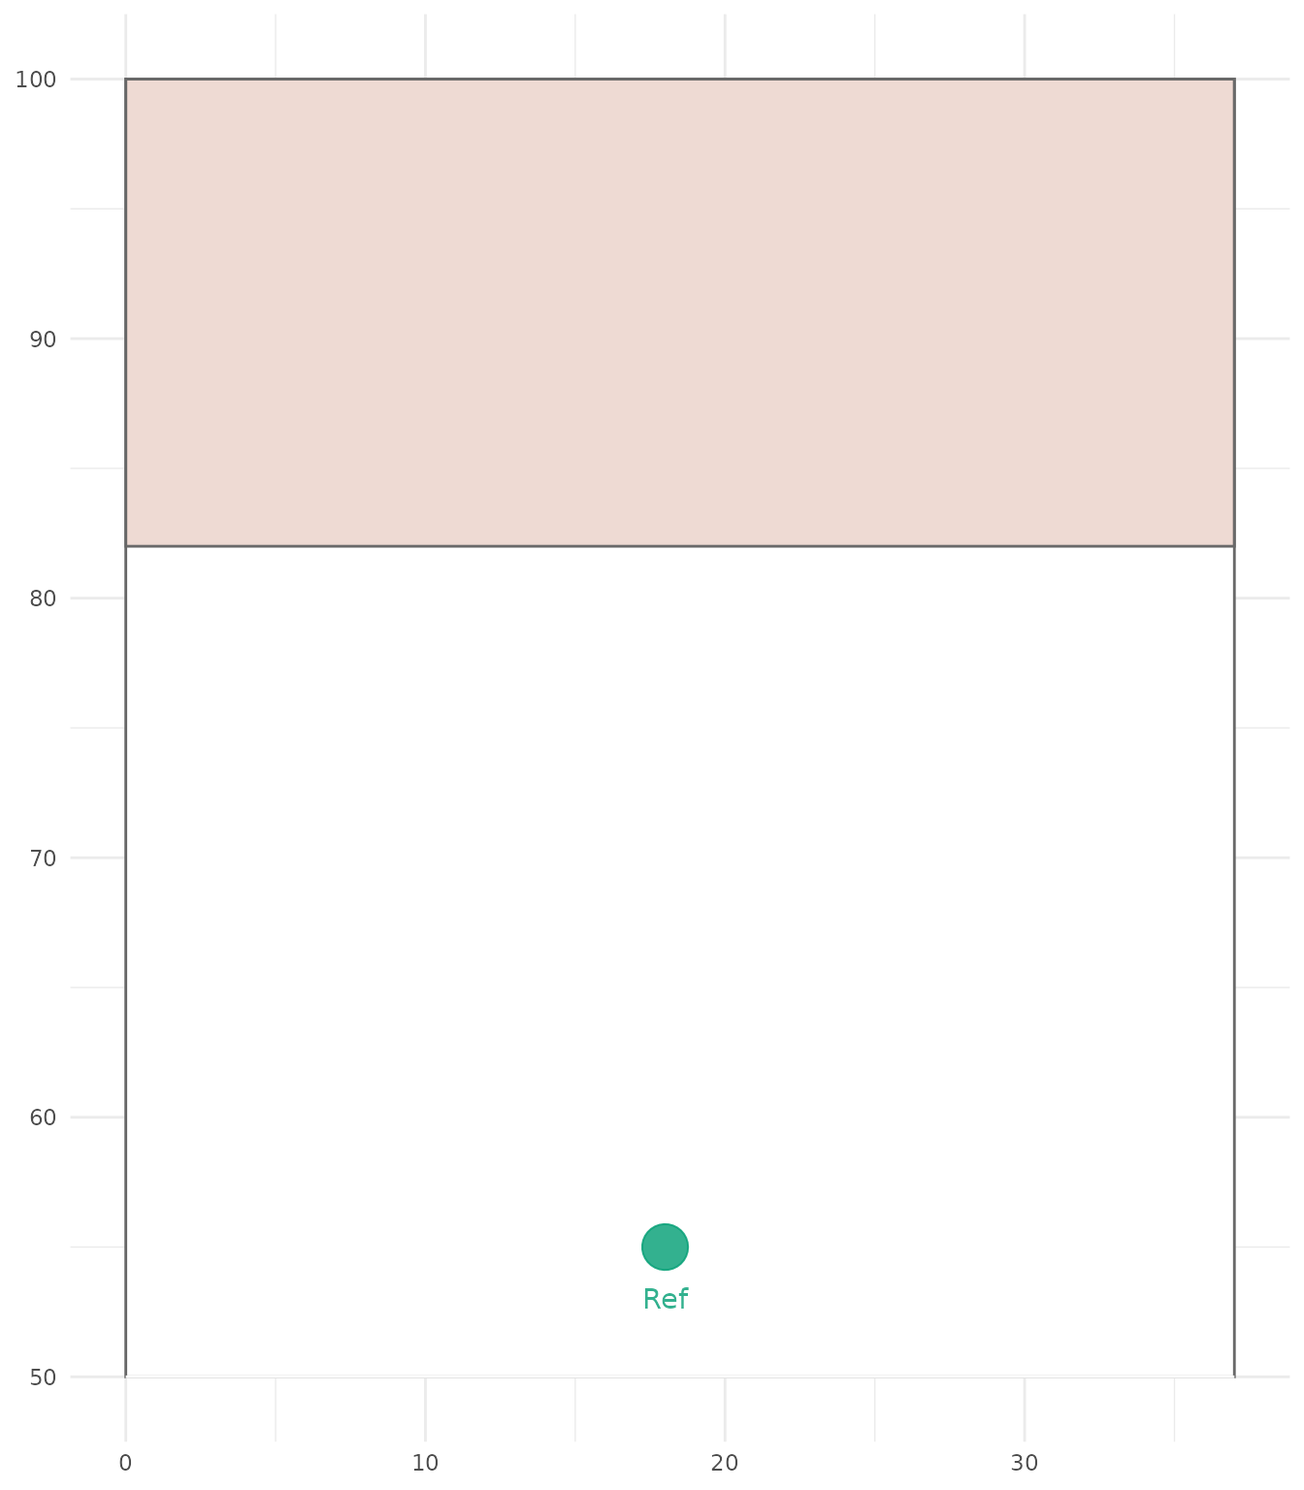
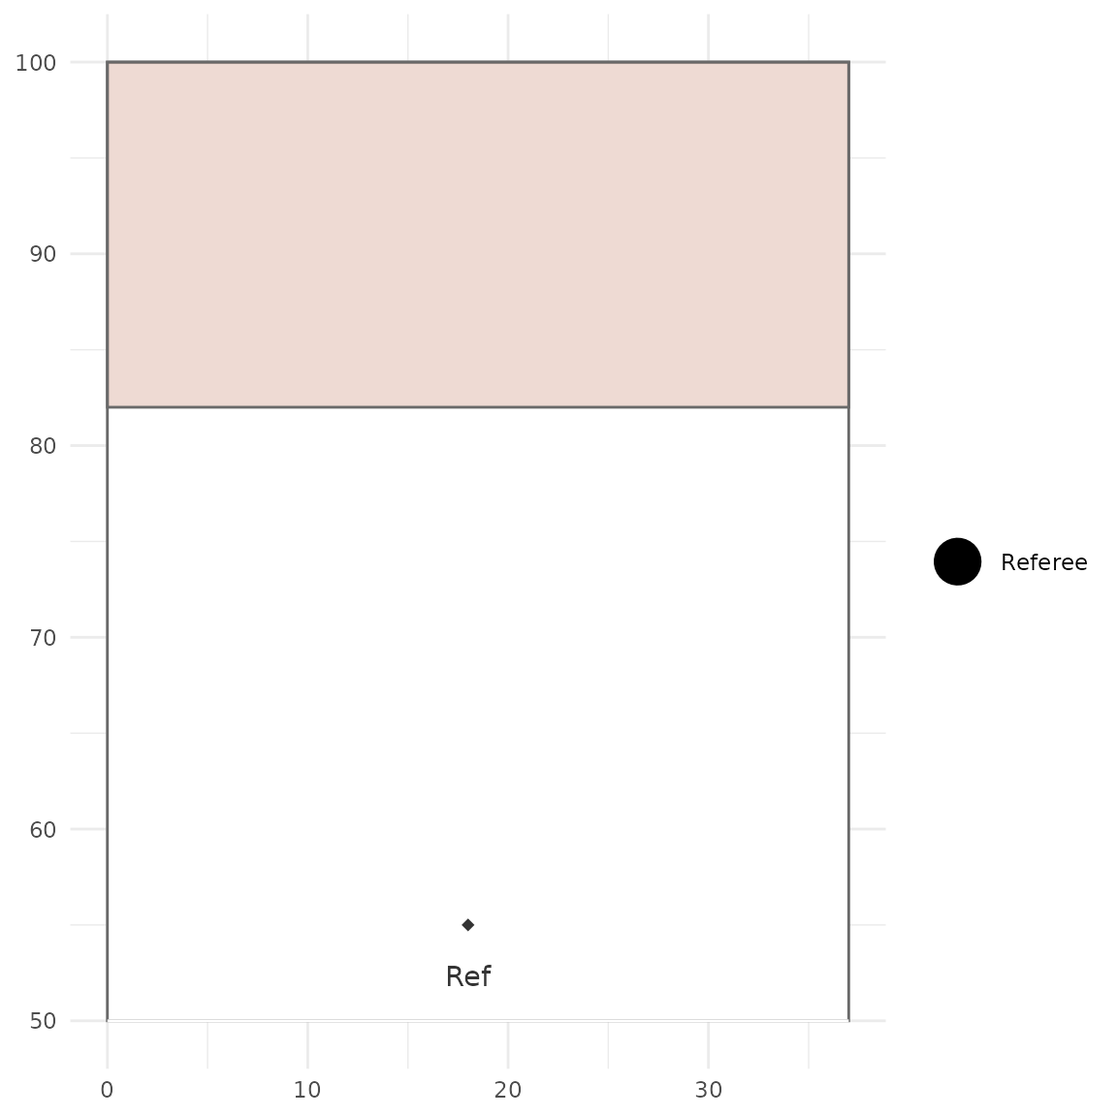
Deploying to gh-pages from @ swebb1/ggulti@4c4fabf41a1923338137650f7c50eff94f878674 🚀

diff --git a/articles/Creating_a_playbook.html b/articles/Creating_a_playbook.html
@@ -109,19 +109,19 @@ endzone.</p>
 </ul>
 <div class="sourceCode" id="cb4"><pre class="downlit sourceCode r">
 <code class="sourceCode R"><span><span class="fu"><a href="../reference/ggpitch.html">ggpitch</a></span><span class="op">(</span><span class="op">)</span></span></code></pre></div>
-<p><img src="Creating_a_playbook_files/figure-html/unnamed-chunk-4-1.png" width="672"></p>
+<p><img src="Creating_a_playbook_files/figure-html/unnamed-chunk-4-1.png" width="576"></p>
 <div class="sourceCode" id="cb5"><pre class="downlit sourceCode r">
 <code class="sourceCode R"><span><span class="fu"><a href="../reference/ggpitch.html">ggpitch</a></span><span class="op">(</span>type <span class="op">=</span> <span class="st">"half_attack"</span>, fill <span class="op">=</span> <span class="st">"lightgreen"</span>, alpha<span class="op">=</span><span class="fl">1</span><span class="op">)</span></span></code></pre></div>
-<p><img src="Creating_a_playbook_files/figure-html/unnamed-chunk-5-1.png" width="672"></p>
+<p><img src="Creating_a_playbook_files/figure-html/unnamed-chunk-5-1.png" width="576"></p>
 <div class="sourceCode" id="cb6"><pre class="downlit sourceCode r">
 <code class="sourceCode R"><span><span class="fu"><a href="../reference/ggpitch.html">ggpitch</a></span><span class="op">(</span>type <span class="op">=</span> <span class="st">"half_defend"</span>, endzone_fill <span class="op">=</span> <span class="st">"black"</span><span class="op">)</span></span></code></pre></div>
-<p><img src="Creating_a_playbook_files/figure-html/unnamed-chunk-6-1.png" width="672"></p>
+<p><img src="Creating_a_playbook_files/figure-html/unnamed-chunk-6-1.png" width="576"></p>
 <div class="sourceCode" id="cb7"><pre class="downlit sourceCode r">
 <code class="sourceCode R"><span><span class="fu"><a href="../reference/ggpitch.html">ggpitch</a></span><span class="op">(</span>type <span class="op">=</span> <span class="st">"blank"</span>, ymax <span class="op">=</span> <span class="fl">50</span>, xmax <span class="op">=</span> <span class="fl">30</span><span class="op">)</span></span></code></pre></div>
-<p><img src="Creating_a_playbook_files/figure-html/unnamed-chunk-7-1.png" width="672"></p>
+<p><img src="Creating_a_playbook_files/figure-html/unnamed-chunk-7-1.png" width="576"></p>
 <div class="sourceCode" id="cb8"><pre class="downlit sourceCode r">
 <code class="sourceCode R"><span><span class="fu"><a href="../reference/ggpitch.html">ggpitch</a></span><span class="op">(</span>type <span class="op">=</span> <span class="st">"void"</span><span class="op">)</span></span></code></pre></div>
-<p><img src="Creating_a_playbook_files/figure-html/unnamed-chunk-8-1.png" width="672"></p>
+<p><img src="Creating_a_playbook_files/figure-html/unnamed-chunk-8-1.png" width="576"></p>
 <p>The <code><a href="../reference/ggpitch.html">ggpitch()</a></code> function returns a <em>ggplot</em> object
 that can be customised further.</p>
 </div>
@@ -156,16 +156,16 @@ image).</p>
 <code><a href="../reference/plot_play.html">plot_play()</a></code> function. The default is to plot frame 1.</p>
 <div class="sourceCode" id="cb10"><pre class="downlit sourceCode r">
 <code class="sourceCode R"><span><span class="fu"><a href="../reference/plot_play.html">plot_play</a></span><span class="op">(</span><span class="va">pitch</span>,object_list <span class="op">=</span> <span class="va">offense</span><span class="op">)</span></span></code></pre></div>
-<p><img src="Creating_a_playbook_files/figure-html/unnamed-chunk-10-1.png" width="672"></p>
+<p><img src="Creating_a_playbook_files/figure-html/unnamed-chunk-10-1.png" width="576"></p>
 <p>We can also choose which frame to plot:</p>
 <div class="sourceCode" id="cb11"><pre class="downlit sourceCode r">
 <code class="sourceCode R"><span><span class="fu"><a href="../reference/plot_play.html">plot_play</a></span><span class="op">(</span><span class="va">pitch</span>,object_list <span class="op">=</span> <span class="va">offense</span>, static_frame <span class="op">=</span> <span class="fl">3</span><span class="op">)</span></span></code></pre></div>
-<p><img src="Creating_a_playbook_files/figure-html/unnamed-chunk-11-1.png" width="672"></p>
+<p><img src="Creating_a_playbook_files/figure-html/unnamed-chunk-11-1.png" width="576"></p>
 <p>Or we can plot all frames and objects which might be useful when
 creating our plots:</p>
 <div class="sourceCode" id="cb12"><pre class="downlit sourceCode r">
 <code class="sourceCode R"><span><span class="fu"><a href="../reference/plot_play.html">plot_play</a></span><span class="op">(</span><span class="va">pitch</span>,object_list <span class="op">=</span> <span class="va">offense</span>,show_all <span class="op">=</span> <span class="cn">T</span><span class="op">)</span></span></code></pre></div>
-<p><img src="Creating_a_playbook_files/figure-html/unnamed-chunk-12-1.png" width="672"></p>
+<p><img src="Creating_a_playbook_files/figure-html/unnamed-chunk-12-1.png" width="576"></p>
 </div>
 <div class="section level3">
 <h3 id="other-object-types">Other object types<a class="anchor" aria-label="anchor" href="#other-object-types"></a>
@@ -188,7 +188,7 @@ types are recognised</p>
 <span><span class="op">)</span></span>
 <span></span>
 <span><span class="fu"><a href="../reference/plot_play.html">plot_play</a></span><span class="op">(</span><span class="va">pitch</span>,object_list <span class="op">=</span> <span class="va">random</span><span class="op">)</span></span></code></pre></div>
-<p><img src="Creating_a_playbook_files/figure-html/unnamed-chunk-13-1.png" width="672"></p>
+<p><img src="Creating_a_playbook_files/figure-html/unnamed-chunk-13-1.png" width="576"></p>
 </div>
 <div class="section level3">
 <h3 id="custom-objects">Custom objects<a class="anchor" aria-label="anchor" href="#custom-objects"></a>
@@ -201,40 +201,43 @@ types are recognised</p>
 <span><span class="op">)</span></span>
 <span></span>
 <span><span class="fu"><a href="../reference/plot_play.html">plot_play</a></span><span class="op">(</span><span class="va">pitch</span>,object_list <span class="op">=</span> <span class="va">custom</span><span class="op">)</span></span></code></pre></div>
-<p><img src="Creating_a_playbook_files/figure-html/unnamed-chunk-14-1.png" width="672"></p>
+<p><img src="Creating_a_playbook_files/figure-html/unnamed-chunk-14-1.png" width="576"></p>
 <p>By default the object will present as an offense object. You can
 change the default options (colour, size, shape) in the
 <code><a href="../reference/plot_play.html">plot_play()</a></code> function:</p>
 <div class="sourceCode" id="cb15"><pre class="downlit sourceCode r">
 <code class="sourceCode R"><span><span class="fu"><a href="../reference/plot_play.html">plot_play</a></span><span class="op">(</span><span class="va">pitch</span>,object_list <span class="op">=</span> <span class="va">custom</span>,default_obj_col<span class="op">=</span><span class="st">"black"</span><span class="op">)</span></span></code></pre></div>
-<p><img src="Creating_a_playbook_files/figure-html/unnamed-chunk-15-1.png" width="672"></p>
-<p>Alternatively, you can add custom objects to the ggulti plot values
-object:</p>
+<p><img src="Creating_a_playbook_files/figure-html/unnamed-chunk-15-1.png" width="576"></p>
+<p>Alternatively, you can use the <code>pv</code> argument to add a new
+list of plotting values. The <code>ggulti_plot_values</code> object
+gives access to default values:</p>
 <div class="sourceCode" id="cb16"><pre class="downlit sourceCode r">
-<code class="sourceCode R"><span><span class="va">ggulti_plot_values</span><span class="op">$</span><span class="va">obj_cols</span><span class="op">[</span><span class="st">"Ref"</span><span class="op">]</span> <span class="op">&lt;-</span> <span class="st">"black"</span></span>
-<span><span class="va">ggulti_plot_values</span><span class="op">$</span><span class="va">obj_shapes</span><span class="op">[</span><span class="st">"Ref"</span><span class="op">]</span> <span class="op">&lt;-</span> <span class="fl">18</span></span>
-<span><span class="va">ggulti_plot_values</span><span class="op">$</span><span class="va">obj_sizes</span><span class="op">[</span><span class="st">"Ref"</span><span class="op">]</span> <span class="op">&lt;-</span> <span class="fl">2</span> </span>
+<code class="sourceCode R"><span><span class="va">pv</span> <span class="op">&lt;-</span> <span class="va">ggulti_plot_values</span></span>
+<span><span class="va">pv</span><span class="op">$</span><span class="va">obj_cols</span> <span class="op">&lt;-</span> <span class="fu"><a href="https://rdrr.io/r/base/c.html" class="external-link">c</a></span><span class="op">(</span><span class="va">pv</span><span class="op">$</span><span class="va">obj_cols</span>,<span class="st">"Referee"</span> <span class="op">=</span> <span class="st">"black"</span><span class="op">)</span></span>
+<span><span class="va">pv</span><span class="op">$</span><span class="va">obj_shapes</span> <span class="op">&lt;-</span> <span class="fu"><a href="https://rdrr.io/r/base/c.html" class="external-link">c</a></span><span class="op">(</span><span class="va">pv</span><span class="op">$</span><span class="va">obj_shapes</span>,<span class="st">"Referee"</span> <span class="op">=</span> <span class="fl">18</span><span class="op">)</span></span>
+<span><span class="va">pv</span><span class="op">$</span><span class="va">obj_sizes</span> <span class="op">&lt;-</span> <span class="fu"><a href="https://rdrr.io/r/base/c.html" class="external-link">c</a></span><span class="op">(</span><span class="va">pv</span><span class="op">$</span><span class="va">obj_sizes</span>,<span class="st">"Referee"</span> <span class="op">=</span> <span class="fl">2</span><span class="op">)</span></span>
 <span></span>
-<span><span class="fu"><a href="../reference/plot_play.html">plot_play</a></span><span class="op">(</span><span class="va">pitch</span>,object_list <span class="op">=</span> <span class="va">custom</span><span class="op">)</span></span></code></pre></div>
-<p><img src="Creating_a_playbook_files/figure-html/unnamed-chunk-16-1.png" width="672"></p>
-<p>By customising objects, you can specifiy specific teams or even
-colour positions in a zone differently.</p>
+<span><span class="fu"><a href="../reference/plot_play.html">plot_play</a></span><span class="op">(</span><span class="va">pitch</span>,object_list <span class="op">=</span> <span class="va">custom</span>, pv<span class="op">=</span><span class="va">pv</span><span class="op">)</span></span></code></pre></div>
+<p><img src="Creating_a_playbook_files/figure-html/unnamed-chunk-16-1.png" width="576"></p>
+<p>By customising objects, you can specifiy specific teams, genders or
+even psoitions e.g.</p>
 <div class="sourceCode" id="cb17"><pre class="downlit sourceCode r">
-<code class="sourceCode R"><span><span class="va">zone_positions</span> <span class="op">&lt;-</span> <span class="fu"><a href="https://rdrr.io/r/base/c.html" class="external-link">c</a></span><span class="op">(</span><span class="st">"Cup"</span> <span class="op">=</span> <span class="st">"blue"</span>, <span class="st">"Wing"</span> <span class="op">=</span> <span class="st">"red"</span>, <span class="st">"Mid"</span> <span class="op">=</span> <span class="st">"yellow"</span>, <span class="st">"Deep"</span> <span class="op">=</span> <span class="st">"green"</span><span class="op">)</span></span>
-<span><span class="va">ggulti_plot_values</span><span class="op">$</span><span class="va">obj_cols</span> <span class="op">&lt;-</span> <span class="fu"><a href="https://rdrr.io/r/base/append.html" class="external-link">append</a></span><span class="op">(</span><span class="va">ggulti_plot_values</span><span class="op">$</span><span class="va">obj_cols</span>, <span class="va">zone_positions</span><span class="op">)</span></span>
+<code class="sourceCode R"><span><span class="va">zone_positions</span> <span class="op">&lt;-</span> <span class="fu"><a href="https://rdrr.io/r/base/c.html" class="external-link">c</a></span><span class="op">(</span><span class="st">"Cup"</span> <span class="op">=</span> <span class="st">"blue"</span>, <span class="st">"Wing"</span> <span class="op">=</span> <span class="st">"red"</span>, <span class="st">"Mid"</span> <span class="op">=</span> <span class="st">"purple"</span>, <span class="st">"Deep"</span> <span class="op">=</span> <span class="st">"green"</span><span class="op">)</span></span>
+<span><span class="va">pv</span> <span class="op">&lt;-</span> <span class="va">ggulti_plot_values</span></span>
+<span><span class="va">pv</span><span class="op">$</span><span class="va">obj_cols</span> <span class="op">&lt;-</span> <span class="fu"><a href="https://rdrr.io/r/base/c.html" class="external-link">c</a></span><span class="op">(</span><span class="va">ggulti_plot_values</span><span class="op">$</span><span class="va">obj_cols</span>, <span class="va">zone_positions</span><span class="op">)</span></span>
 <span></span>
 <span><span class="va">zone</span> <span class="op">&lt;-</span> <span class="fu"><a href="https://rdrr.io/r/base/list.html" class="external-link">list</a></span><span class="op">(</span></span>
-<span>  <span class="fu"><a href="../reference/pitch_object.html">pitch_object</a></span><span class="op">(</span><span class="st">"Cup"</span>, show<span class="op">=</span><span class="cn">T</span>, x<span class="op">=</span><span class="fu"><a href="https://rdrr.io/r/base/c.html" class="external-link">c</a></span><span class="op">(</span><span class="fl">14</span><span class="op">)</span>, y<span class="op">=</span><span class="fu"><a href="https://rdrr.io/r/base/c.html" class="external-link">c</a></span><span class="op">(</span><span class="fl">25</span><span class="op">)</span><span class="op">)</span>,</span>
-<span>  <span class="fu"><a href="../reference/pitch_object.html">pitch_object</a></span><span class="op">(</span><span class="st">"Cup"</span>, show<span class="op">=</span><span class="cn">T</span>, x<span class="op">=</span><span class="fu"><a href="https://rdrr.io/r/base/c.html" class="external-link">c</a></span><span class="op">(</span><span class="fl">18</span><span class="op">)</span>, y<span class="op">=</span><span class="fu"><a href="https://rdrr.io/r/base/c.html" class="external-link">c</a></span><span class="op">(</span><span class="fl">28</span><span class="op">)</span><span class="op">)</span>,</span>
-<span>  <span class="fu"><a href="../reference/pitch_object.html">pitch_object</a></span><span class="op">(</span><span class="st">"Cup"</span>, show<span class="op">=</span><span class="cn">T</span>, x<span class="op">=</span><span class="fu"><a href="https://rdrr.io/r/base/c.html" class="external-link">c</a></span><span class="op">(</span><span class="fl">22</span><span class="op">)</span>, y<span class="op">=</span><span class="fu"><a href="https://rdrr.io/r/base/c.html" class="external-link">c</a></span><span class="op">(</span><span class="fl">25</span><span class="op">)</span><span class="op">)</span>,</span>
-<span>  <span class="fu"><a href="../reference/pitch_object.html">pitch_object</a></span><span class="op">(</span><span class="st">"Wing"</span>, show<span class="op">=</span><span class="cn">T</span>, x<span class="op">=</span><span class="fu"><a href="https://rdrr.io/r/base/c.html" class="external-link">c</a></span><span class="op">(</span><span class="fl">10</span><span class="op">)</span>, y<span class="op">=</span><span class="fu"><a href="https://rdrr.io/r/base/c.html" class="external-link">c</a></span><span class="op">(</span><span class="fl">40</span><span class="op">)</span><span class="op">)</span>,</span>
-<span>  <span class="fu"><a href="../reference/pitch_object.html">pitch_object</a></span><span class="op">(</span><span class="st">"Wing"</span>, show<span class="op">=</span><span class="cn">T</span>, x<span class="op">=</span><span class="fu"><a href="https://rdrr.io/r/base/c.html" class="external-link">c</a></span><span class="op">(</span><span class="fl">27</span><span class="op">)</span>, y<span class="op">=</span><span class="fu"><a href="https://rdrr.io/r/base/c.html" class="external-link">c</a></span><span class="op">(</span><span class="fl">40</span><span class="op">)</span><span class="op">)</span>,</span>
-<span>  <span class="fu"><a href="../reference/pitch_object.html">pitch_object</a></span><span class="op">(</span><span class="st">"Mid"</span>, show<span class="op">=</span><span class="cn">T</span>, x<span class="op">=</span><span class="fu"><a href="https://rdrr.io/r/base/c.html" class="external-link">c</a></span><span class="op">(</span><span class="fl">18</span><span class="op">)</span>, y<span class="op">=</span><span class="fu"><a href="https://rdrr.io/r/base/c.html" class="external-link">c</a></span><span class="op">(</span><span class="fl">38</span><span class="op">)</span><span class="op">)</span>,</span>
-<span>  <span class="fu"><a href="../reference/pitch_object.html">pitch_object</a></span><span class="op">(</span><span class="st">"Deep"</span>, show<span class="op">=</span><span class="cn">T</span>, x<span class="op">=</span><span class="fu"><a href="https://rdrr.io/r/base/c.html" class="external-link">c</a></span><span class="op">(</span><span class="fl">18</span><span class="op">)</span>, y<span class="op">=</span><span class="fu"><a href="https://rdrr.io/r/base/c.html" class="external-link">c</a></span><span class="op">(</span><span class="fl">60</span><span class="op">)</span><span class="op">)</span></span>
+<span>  <span class="fu"><a href="../reference/pitch_object.html">pitch_object</a></span><span class="op">(</span><span class="st">"C1"</span>, show<span class="op">=</span><span class="cn">T</span>, object <span class="op">=</span> <span class="st">"Cup"</span>, x<span class="op">=</span><span class="fu"><a href="https://rdrr.io/r/base/c.html" class="external-link">c</a></span><span class="op">(</span><span class="fl">14</span><span class="op">)</span>, y<span class="op">=</span><span class="fu"><a href="https://rdrr.io/r/base/c.html" class="external-link">c</a></span><span class="op">(</span><span class="fl">25</span><span class="op">)</span><span class="op">)</span>,</span>
+<span>  <span class="fu"><a href="../reference/pitch_object.html">pitch_object</a></span><span class="op">(</span><span class="st">"C2"</span>, show<span class="op">=</span><span class="cn">T</span>, object <span class="op">=</span> <span class="st">"Cup"</span>, x<span class="op">=</span><span class="fu"><a href="https://rdrr.io/r/base/c.html" class="external-link">c</a></span><span class="op">(</span><span class="fl">18</span><span class="op">)</span>, y<span class="op">=</span><span class="fu"><a href="https://rdrr.io/r/base/c.html" class="external-link">c</a></span><span class="op">(</span><span class="fl">28</span><span class="op">)</span><span class="op">)</span>,</span>
+<span>  <span class="fu"><a href="../reference/pitch_object.html">pitch_object</a></span><span class="op">(</span><span class="st">"C3"</span>, show<span class="op">=</span><span class="cn">T</span>, object <span class="op">=</span> <span class="st">"Cup"</span>, x<span class="op">=</span><span class="fu"><a href="https://rdrr.io/r/base/c.html" class="external-link">c</a></span><span class="op">(</span><span class="fl">22</span><span class="op">)</span>, y<span class="op">=</span><span class="fu"><a href="https://rdrr.io/r/base/c.html" class="external-link">c</a></span><span class="op">(</span><span class="fl">25</span><span class="op">)</span><span class="op">)</span>,</span>
+<span>  <span class="fu"><a href="../reference/pitch_object.html">pitch_object</a></span><span class="op">(</span><span class="st">"W1"</span>, show<span class="op">=</span><span class="cn">T</span>, object <span class="op">=</span> <span class="st">"Wing"</span>, x<span class="op">=</span><span class="fu"><a href="https://rdrr.io/r/base/c.html" class="external-link">c</a></span><span class="op">(</span><span class="fl">10</span><span class="op">)</span>, y<span class="op">=</span><span class="fu"><a href="https://rdrr.io/r/base/c.html" class="external-link">c</a></span><span class="op">(</span><span class="fl">40</span><span class="op">)</span><span class="op">)</span>,</span>
+<span>  <span class="fu"><a href="../reference/pitch_object.html">pitch_object</a></span><span class="op">(</span><span class="st">"W2"</span>, show<span class="op">=</span><span class="cn">T</span>, object <span class="op">=</span> <span class="st">"Wing"</span>, x<span class="op">=</span><span class="fu"><a href="https://rdrr.io/r/base/c.html" class="external-link">c</a></span><span class="op">(</span><span class="fl">27</span><span class="op">)</span>, y<span class="op">=</span><span class="fu"><a href="https://rdrr.io/r/base/c.html" class="external-link">c</a></span><span class="op">(</span><span class="fl">40</span><span class="op">)</span><span class="op">)</span>,</span>
+<span>  <span class="fu"><a href="../reference/pitch_object.html">pitch_object</a></span><span class="op">(</span><span class="st">"Mid"</span>, show<span class="op">=</span><span class="cn">T</span>, object <span class="op">=</span> <span class="st">"Mid"</span>, x<span class="op">=</span><span class="fu"><a href="https://rdrr.io/r/base/c.html" class="external-link">c</a></span><span class="op">(</span><span class="fl">18</span><span class="op">)</span>, y<span class="op">=</span><span class="fu"><a href="https://rdrr.io/r/base/c.html" class="external-link">c</a></span><span class="op">(</span><span class="fl">38</span><span class="op">)</span>, label_pos <span class="op">=</span> <span class="st">"up"</span><span class="op">)</span>,</span>
+<span>  <span class="fu"><a href="../reference/pitch_object.html">pitch_object</a></span><span class="op">(</span><span class="st">"Deep"</span>, show<span class="op">=</span><span class="cn">T</span>, object <span class="op">=</span> <span class="st">"Deep"</span>, x<span class="op">=</span><span class="fu"><a href="https://rdrr.io/r/base/c.html" class="external-link">c</a></span><span class="op">(</span><span class="fl">18</span><span class="op">)</span>, y<span class="op">=</span><span class="fu"><a href="https://rdrr.io/r/base/c.html" class="external-link">c</a></span><span class="op">(</span><span class="fl">60</span><span class="op">)</span><span class="op">)</span></span>
 <span><span class="op">)</span></span>
 <span></span>
-<span><span class="fu"><a href="../reference/plot_play.html">plot_play</a></span><span class="op">(</span><span class="fu"><a href="../reference/ggpitch.html">ggpitch</a></span><span class="op">(</span>endzone_fill<span class="op">=</span><span class="st">"darkgrey"</span><span class="op">)</span>,object_list <span class="op">=</span> <span class="va">zone</span><span class="op">)</span></span></code></pre></div>
-<p><img src="Creating_a_playbook_files/figure-html/unnamed-chunk-17-1.png" width="672"></p>
+<span><span class="fu"><a href="../reference/plot_play.html">plot_play</a></span><span class="op">(</span><span class="fu"><a href="../reference/ggpitch.html">ggpitch</a></span><span class="op">(</span>endzone_fill<span class="op">=</span><span class="st">"darkgrey"</span><span class="op">)</span>,object_list <span class="op">=</span> <span class="va">zone</span>,pv<span class="op">=</span><span class="va">pv</span><span class="op">)</span></span></code></pre></div>
+<p><img src="Creating_a_playbook_files/figure-html/unnamed-chunk-17-1.png" width="576"></p>
 </div>
 </div>
   </main><aside class="col-md-3"><nav id="toc"><h2>On this page</h2>

diff --git a/reference/hstack.html b/reference/hstack.html
@@ -74,7 +74,7 @@
 <span class="r-out co"><span class="r-pr">#&gt;</span>             y = c(40), alpha = 0.8, frame = 1))</span>
 <span class="r-out co"><span class="r-pr">#&gt;</span>     bind_rows(players)</span>
 <span class="r-out co"><span class="r-pr">#&gt;</span> }</span>
-<span class="r-out co"><span class="r-pr">#&gt;</span> &lt;bytecode: 0x564ce39fe4b0&gt;</span>
+<span class="r-out co"><span class="r-pr">#&gt;</span> &lt;bytecode: 0x56450a8be2f8&gt;</span>
 <span class="r-out co"><span class="r-pr">#&gt;</span> &lt;environment: namespace:ggulti&gt;</span>
 </code></pre></div>
     </div>
